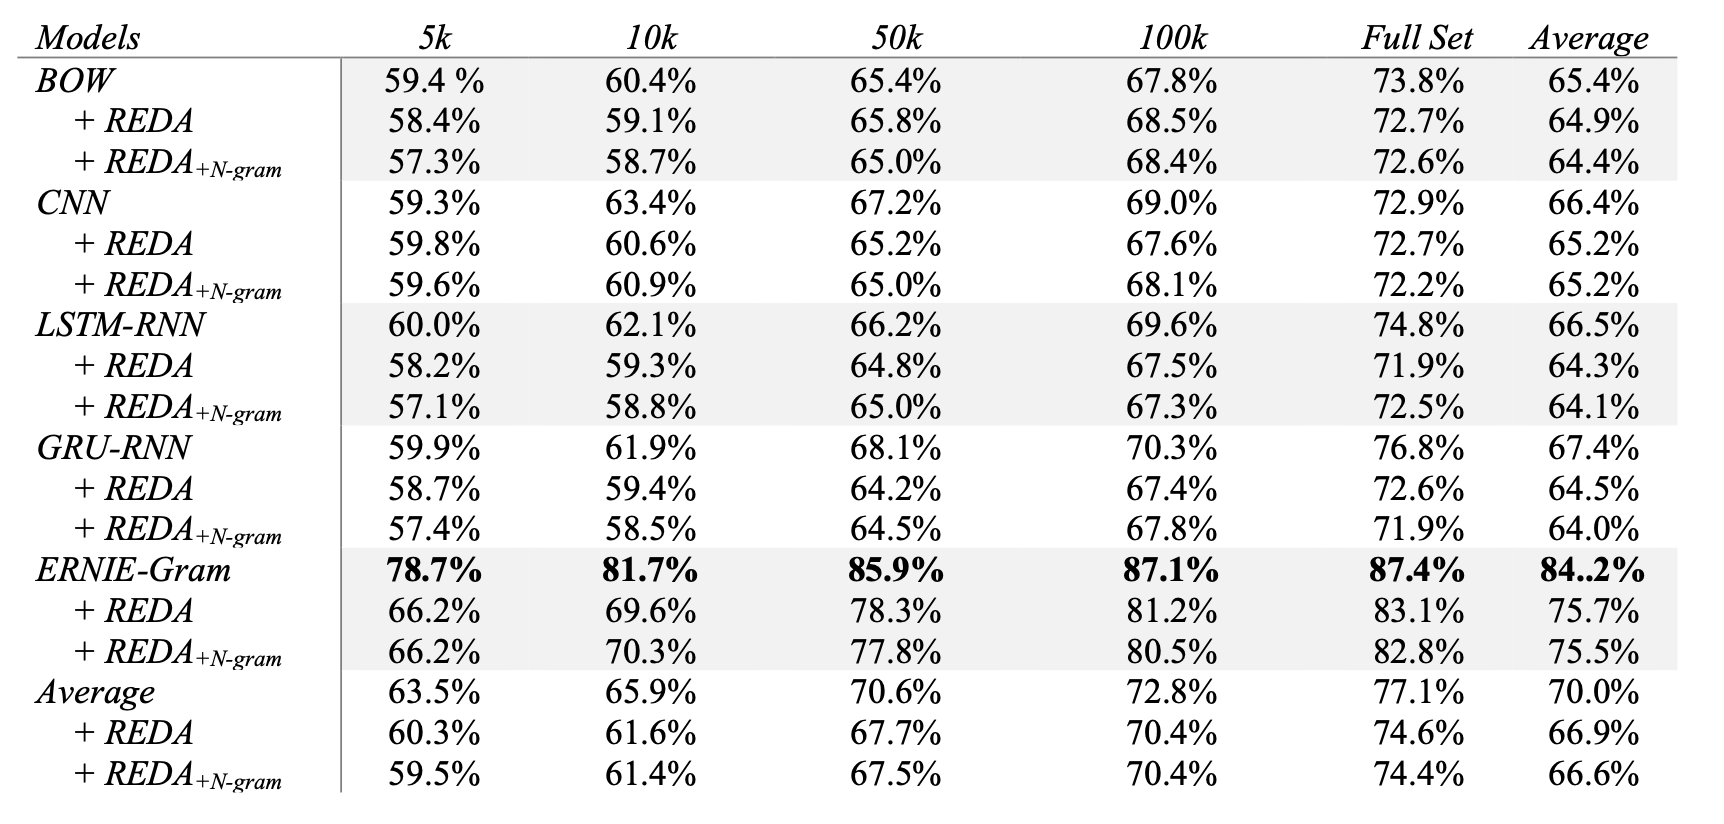
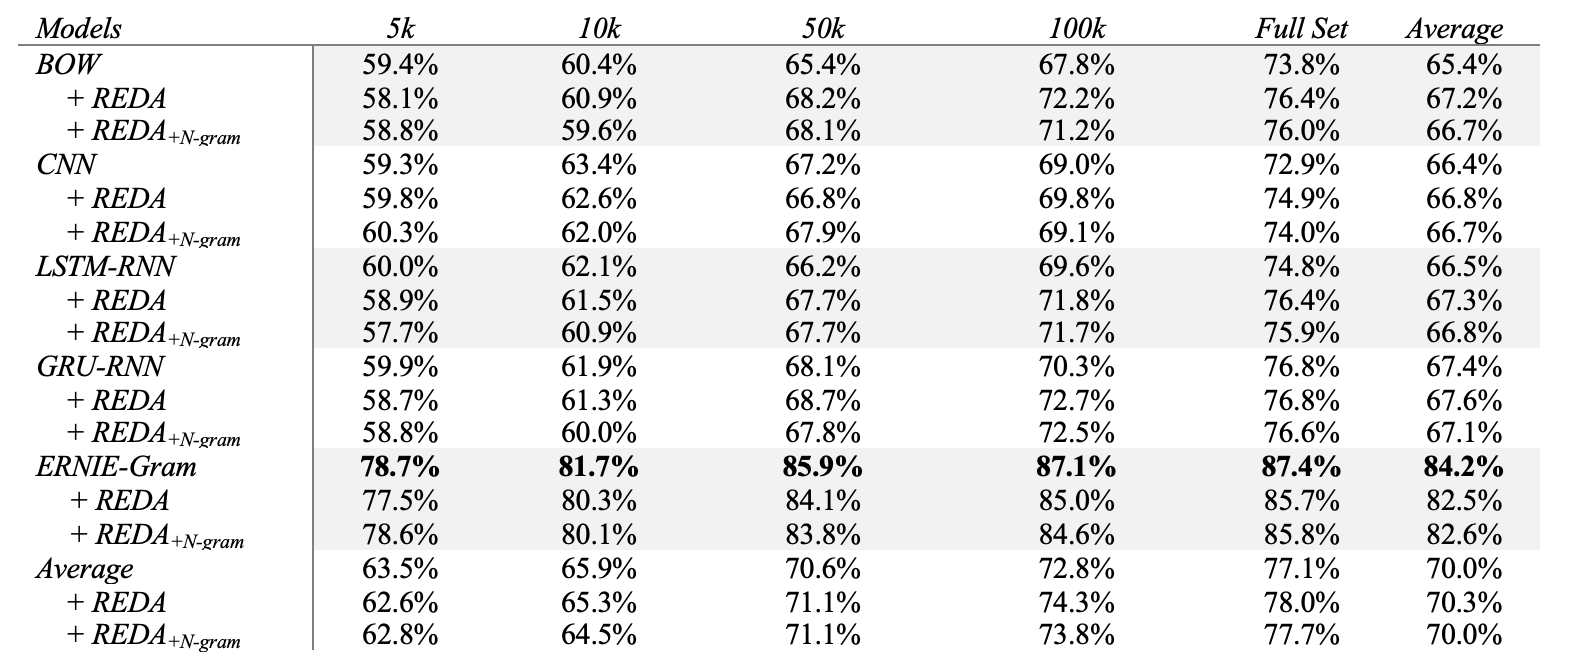
Add files via upload

Changed region(s): [[0.0, 0.0299, 0.9638, 0.9552], [0.0, 0.2687, 0.1555, 0.9851], [0.0, 0.1194, 0.1555, 0.2687]]

diff --git a/README.md b/README.md
@@ -1,34 +1,62 @@
-The source code and data for my paper titled [Linguistic Knowledge in Data Augmentation for Natural Language Processing: An Example on Chinese Question Matching](https://arxiv.org/abs/2111.14709). The [ReduplicatingTheStudy folder](https://github.com/jaaack-wang/linguistic-knowledge-in-DA-for-NLP/tree/main/ReduplicatingTheStudy) provides details of how to reproduce the results of this paper as well as the experimental results for fitting the classification models. 
+The source code, data, and results for my paper titled [Linguistic Knowledge in Data Augmentation for Natural Language Processing: An Example on Chinese Question Matching](https://arxiv.org/abs/2111.14709). The [ReduplicatingTheStudy folder](https://github.com/jaaack-wang/linguistic-knowledge-in-DA-for-NLP/tree/main/ReduplicatingTheStudy) provides details of how to reproduce the results of this paper. Please let me know if you have any problems reproducing the results. 
 
+Structure: 
+- [1. Correction Statement](#1)
+- [2. Description](#2)
+- [3. A quick look at the results](#3)
+- [4. Built programs](#4)
+- [5. Citation](#5)
+
+
+<a name='1'></a>
+## Correction Statement
+
+In the first draft of the paper, there were two unintentional errors I made when augmenting train sets as can be seen below:
+
+- First, I forgot to pass a parameter called out_num_each when calling the `augModel.augment` function in the second time. This mistake should not be very harmful. 
+-  Second, I did not do cross pairing at all when augmenting texts as described in my paper! This is a very severe mistake because not doing cross pairing will make one side of the texts always being paried with their augmented texts. When the original labels are 0 (non-matching), but the augmented texts happen to match with the original texts, that creates a great deal of false matching augmented text pairs. In other words, not doing cross pairing is likely to produce significantly more label-changing examples, which in the first draft were mistakenly analyzed as the limitations of random text editing operations for question matching task. **Therefore, when reading and citing the paper, please refer to the second version and discard the first one!**
+
+
+ <img align="center" width='500' height='250' src="./img/error.png">
+
+
+<a name='2'></a>
 ## Description 
 
-The paper examines the role of linguistic knowledge in data augmentation for natural language processing (NLP). More concretely, I adapted and rewrote the widely used Esay Data Augmentation program ([program](https://github.com/jasonwei20/eda_nlp), [paper](https://arxiv.org/abs/1901.11196)) and created two revised verisons that augment Chinese text by five simple text editing operations with or without a n-gram language model. The experiments were run on [LCQMC](http://icrc.hitsz.edu.cn/info/1037/1146.htm) (Large-scale Chinese Question Matching Corpus) with the original train set of varying size as well as the corresponding augmented train sets for a binary Chinese question matching task utilizing five neural classification models (BOW, CNN, LSTM-RNN, GRU-RNN, ERNIE-Gram). 
+The paper examines the role of linguistic knowledge in data augmentation for natural language processing (NLP). More concretely, I adapted and rewrote the widely used Esay Data Augmentation program ([program](https://github.com/jasonwei20/eda_nlp), [paper](https://arxiv.org/abs/1901.11196)) and created two verisons that augment Chinese text by five simple text editing operations with or without a n-gram language model. The experiments were run on [LCQMC](http://icrc.hitsz.edu.cn/info/1037/1146.htm) (Large-scale Chinese Question Matching Corpus) with the original train set of varying size as well as the corresponding augmented train sets for a binary Chinese question matching task utilizing five neural classification models (BOW, CNN, LSTM-RNN, GRU-RNN, ERNIE-Gram). 
 
-The results show that models trained on the augmented train sets were outperformed by those trained without augmentation, contrary to [the EDA authors' findings](https://arxiv.org/abs/1901.11196) on 5 much simpler sentiment-related and text type classification tasks. Moreover, the revised EDA program enhanced with a n-gram language model did not lead to better trained classifications, due to the inability of the underlying text editing operations to make paraphrastic augmented texts. As question matching, or text matching, is a more fundamental task for NLP, and a more difficult one (it compares a pair of texts, instead of one, to predict a label), this study shows the limitation of random text editing perturbations as a data augmentation approach for NLP. Instead, the paper proposes a possible paradigm shift for data augmentation: instead of augmenting existing data, it may be worth trying to augment synthetic data. 
+The basic findings are twofold:
+- The revised EDA program enhanced with a n-gram language model did not lead to better test set classification results in terms of accuracy, precision, recall, and F1 scores. This is also true even when the five text editing operations are applied and compared separately for the two revised programs (as shown in the ablation study). This means that adding probabilistic linguistic knowledge as constrains is not very useful, although doing so does lead to more readable and higher-quality augmented texts.
+- Unlike [the EDA authors' findings](https://arxiv.org/abs/1901.11196) on 5 much simpler sentiment-related and text type classification tasks, this study did not find general performance gains across train sets of varying sizes after the five text editing operations or any one of it were applied. Intead, the classification models always need to see sufficient amounts of traning examples (e.g., at least 50k, or at least 100k) so that they can mediate the negative impact of false matching augmented text pairs and generalize better. This shows a limitation of random text editing perturbations used a DA approach, especially for text matching, which is more sensitive to and subject to some tiny semantic changes caused by text augmentation.  
 
 
+<a name='3'></a>
 ## A quick look at the results  
 
 The table below shows the test set accuracies of the five classification models trained on the three types of train sets of varying size. REDA: Revised EDA program. <img src="https://render.githubusercontent.com/render/math?math=$REDA_{+N-gram}$"> is the REDA program combined with a n-gram language model. 
-
- <img align="center" height='350' src="./img/accuracy.png">
+ <img align="center" width='500' height='250' src="./img/accuracy.png">
 
 
 The table below shows the average precision, recall, and f1 scores for the five classification models on the three types of train sets.
-
- <img align="center" src="./img/pre_recall_f1.png">
-
+ <img align="center" width='500' height='250' src="./img/pre_recall_f1.png">
 
 
+The figure below shows the average test set accuracy scores of the five classification models under different conditions (i.e., text editing type, training data size) for the three types of train sets. The sixth plot averages the statistics of the previous five plots. 
+
+ <img align="center" width='500' height='250' src="./img/ablation_precision.png">
+
+
+<a name='4'></a>
 ## Built programs
 
 Below are three programs created in this study. For the classification models, I reused the ones already built by Baidu's paddlenlp team with a few revisions for its training and predicting scripts. Please refer to the [scripts folder](https://github.com/jaaack-wang/linguistic-knowledge-in-DA-for-NLP/tree/main/scripts) to find out more.
 
-- REDA: Revised Esay Data Augmentation, currently for Chinese, but easy to adapt. It works by five text editing operations, i.e., Synonym Replacement (SR), Random Swap (RS), Random Insertion (RI), and Random Deletion (RD), and Random Mix (RM). RM is a newly created operation that randomly selects 2-4 of the other four operations to produce novel texts. The REDA program also solves the problem of EDA program not depulicating the outputs. [Code](https://github.com/jaaack-wang/linguistic-knowledge-in-DA-for-NLP/blob/main/scripts/reda.py).
-- <img src="https://render.githubusercontent.com/render/math?math=$REDA_{+N-gram}$">: the REDA program combined with a n-gram language model that select the most likely augmented texts as the outputs, which turn out to be more readable and grammatical. Nevertheless, due to the simpilicity of the REDA program, adding probabilisic contrains does not make the augmented texts paraphrastic. [Code](https://github.com/jaaack-wang/linguistic-knowledge-in-DA-for-NLP/blob/main/scripts/redaNgramLm.py)
+- REDA: Revised Esay Data Augmentation, currently for Chinese, but easy to adapt. It works by five text editing operations, i.e., Synonym Replacement (SR), Random Swap (RS), Random Insertion (RI), and Random Deletion (RD), and Random Mix (RM). RM is a newly created operation that randomly selects 2-4 of the other four operations to produce novel texts. The REDA program also solves the program of EDA program not depulicating the outputs. [Code](https://github.com/jaaack-wang/linguistic-knowledge-in-DA-for-NLP/blob/main/scripts/reda.py).
+- <img src="https://render.githubusercontent.com/render/math?math=$REDA_{+N-gram}$">: the REDA program combined with a n-gram language model that select the most likely augmented texts as the outputs, which turn out to be effective in making the augmented texts more readable and grammatical. Nevertheless, due to the simpilicity of the REDA program, adding probabilisic contrain does not make the augmented texts paraphrastic. [Code](https://github.com/jaaack-wang/linguistic-knowledge-in-DA-for-NLP/blob/main/scripts/redaNgramLm.py)
 - N-gram language model: [Code](https://github.com/jaaack-wang/linguistic-knowledge-in-DA-for-NLP/blob/main/scripts/ngramLM.py)
 
 
+<a name='5'></a>
 ## Citation
 
 ```cmd
